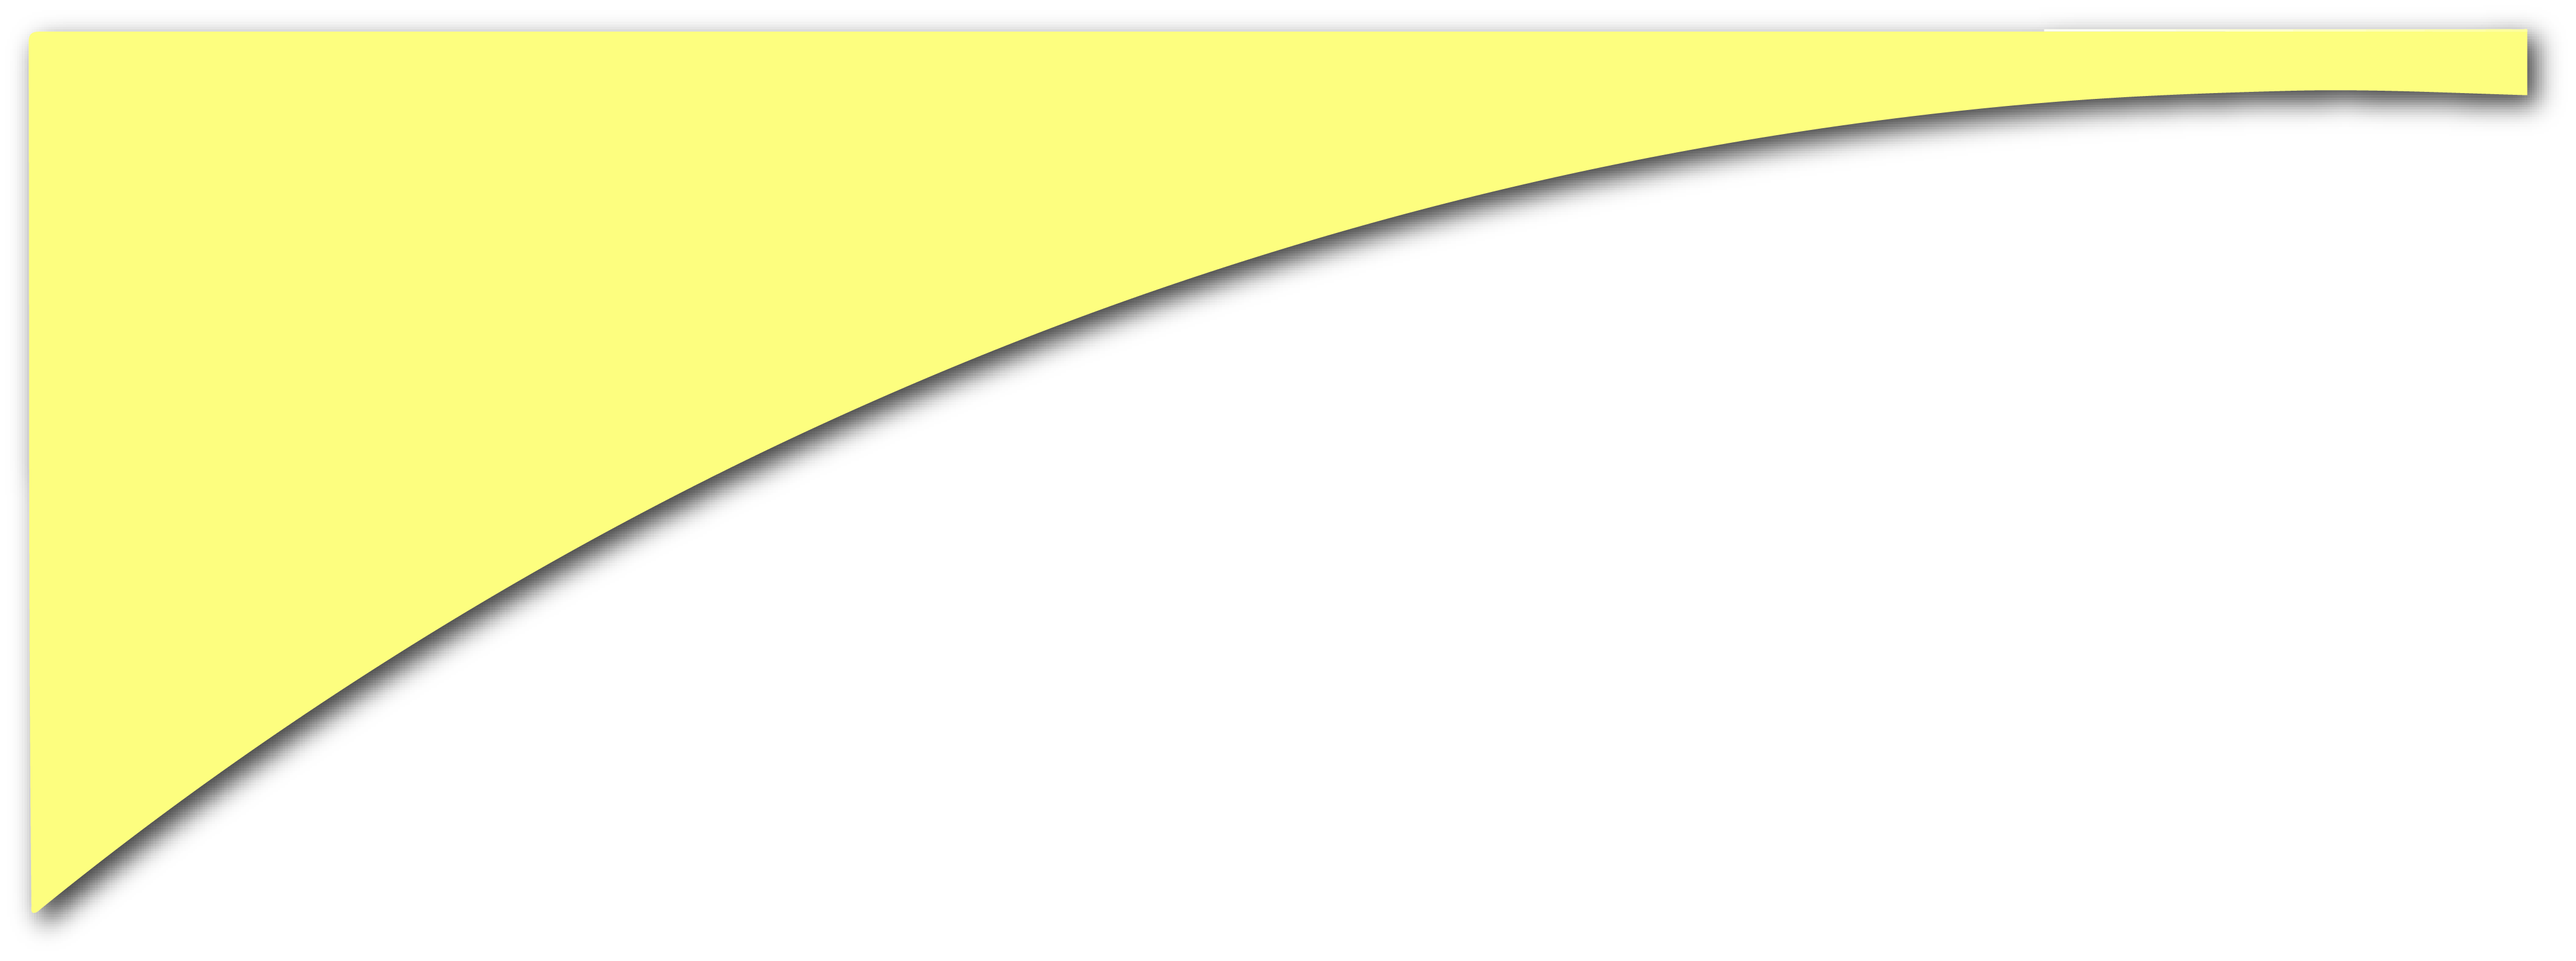
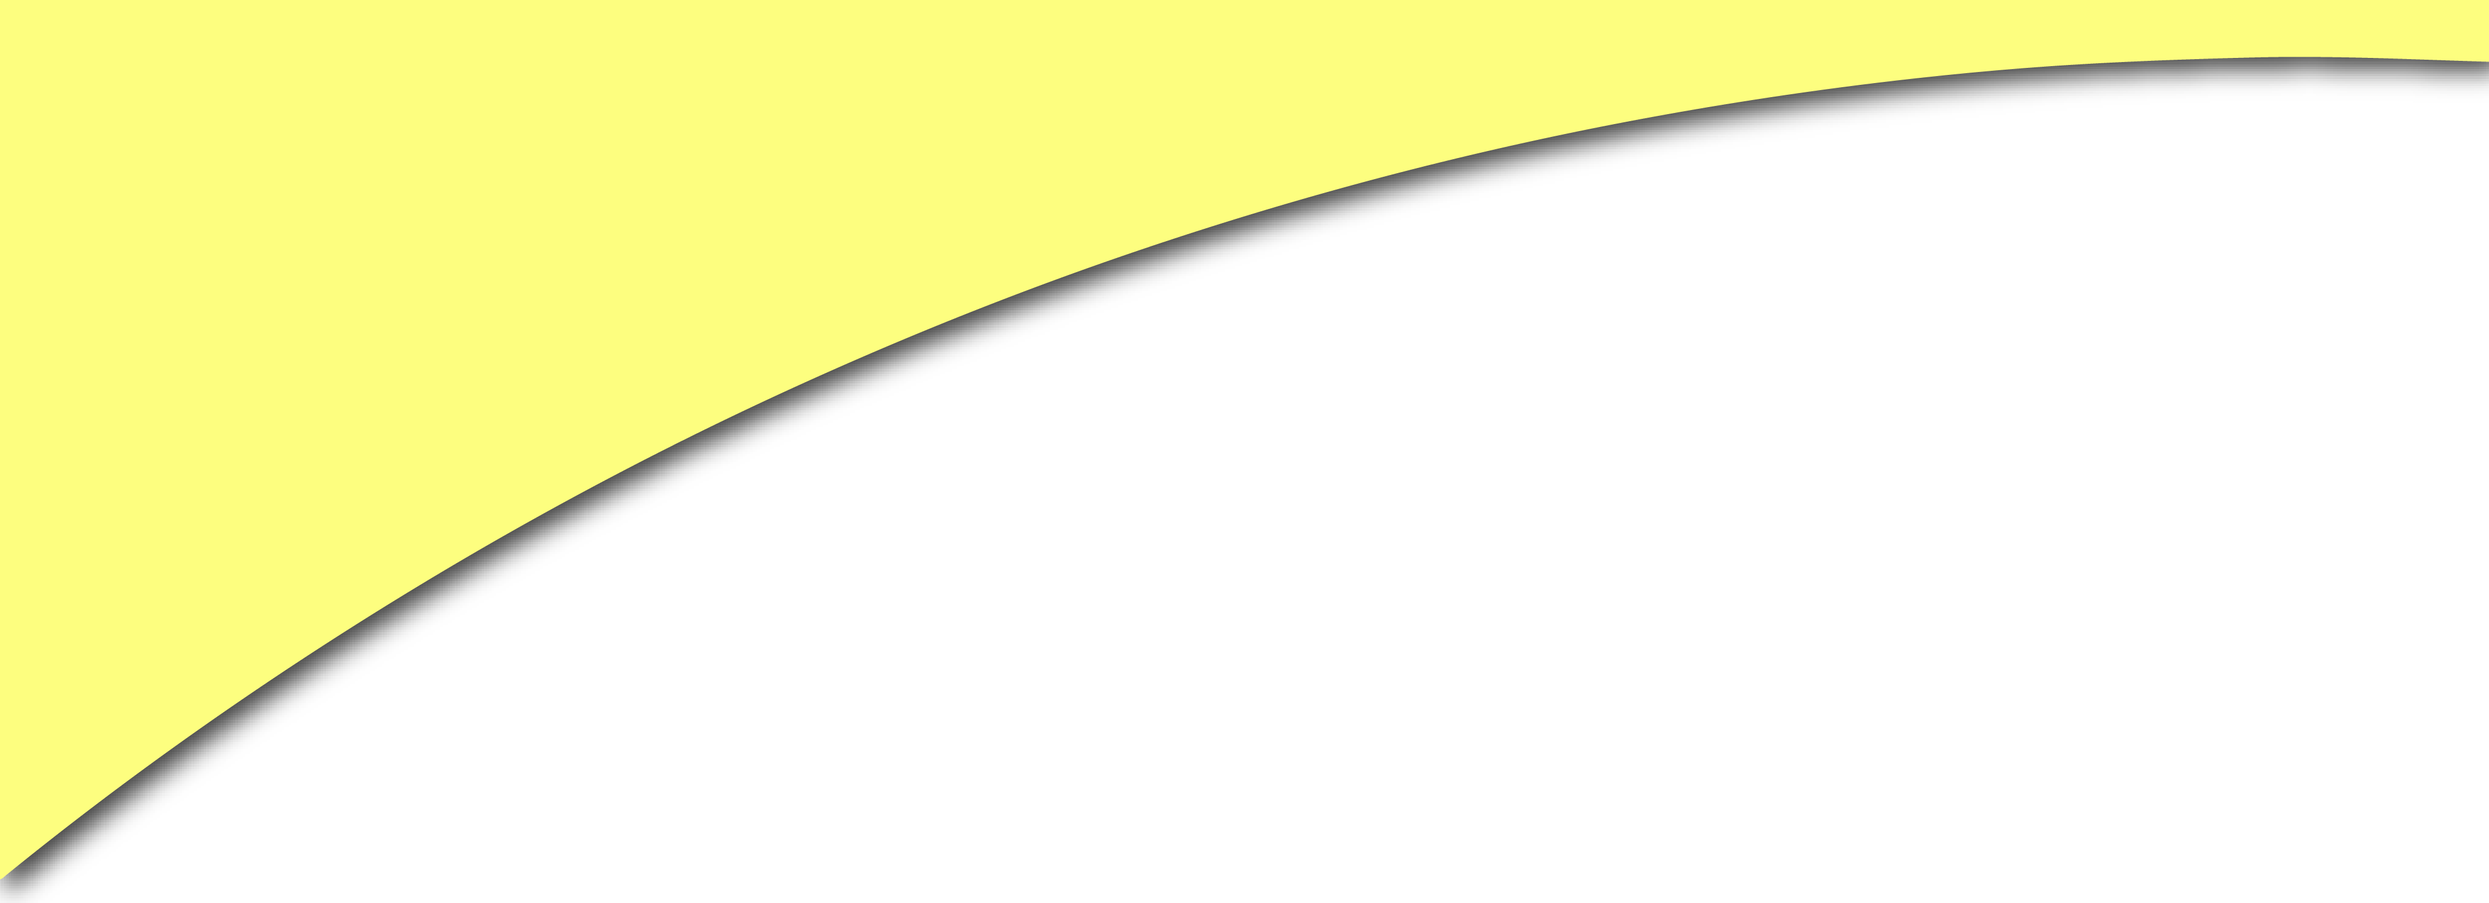
finished for now

Changed region(s): [[0.0, 0.0, 1.0, 0.9955]]

diff --git a/assets/css/style.css b/assets/css/style.css
@@ -1,6 +1,10 @@
 * {
     box-sizing: border-box;
 }
+body {
+    font-family: Arial, Helvetica, sans-serif;
+    overflow-x: hidden;
+}
 
 header {
     display: flex;
@@ -18,22 +22,30 @@ nav {
     background-color: rgb(65, 236, 170);
     align-items: end;
     height: 150px;
+    padding-bottom: 10px;
+    padding-right: 20px;
+
 }
 
 nav ul {
-    width: 50%;
+    width: 40%;
     display: flex;
     flex-direction: row;
     justify-content: space-between;
+    z-index: 100;
 }
 
 nav li a {
-    font-family:'sans-serif';
     font-weight: bold;
     font-size: 30px;
     color: black;
     text-decoration: none;
-    margin: 0px 50px;
+    margin: 0;
+}
+
+nav li a:hover {
+    color: blue;
+    text-decoration: underline;
 }
 
 main {
@@ -41,10 +53,12 @@ main {
     flex-direction: row-reverse;
     width: 100%;
 }
-
+.main-content {
+    width: 75%
+}
 .curve {
     height: 450px;
-    left: -15px;
+    left: 0px;
     position: absolute;
     top: -20px;
     width: 100%;
@@ -55,6 +69,7 @@ main {
     width: 100%;
     height: 400px;
 }
+
 
 .car-dog {
     position: relative;
@@ -69,21 +84,30 @@ h2 {
 }
 
 .bring-to-you {
+    background-image: url("../images/dog-car.jpg");
+    background-size: cover;
+    background-position: 50% 50%;
+    width: 100%;
+    height: 400px;
+    padding-left: 40px;
+}
+
+.bring-to-you p {
     position: absolute;
-    left: 375px;
-    bottom: 40%;
     color: white;
     font-weight: bold;
     font-size: 60px;
-    width: 600px;
-    height: 40px;
+    height: 100%;
+    width: 50%;
+    padding-top: 120px;
+    padding-left: 10px;
+    text-shadow: 2px 2px 8px #000000;
 }
 
 .steps {
     display: flex;
-    justify-content: space-between;
-    height: 200px;
-    width: 100%;
+    /* height: 200px; */
+    /* width: 100%; */
 } 
 
 #calendar-pic {
@@ -93,26 +117,26 @@ h2 {
 }
 
 .dot-top {
-    width: 120px;
+    width: 25%;
     height:60px;
     z-index: -1;
     background: transparent;
     border: none;
-    border-top: dotted 2px black;
+    border-top: dotted 10px black;
     padding: 40px 40px;
-    border-radius: 40%;
+    border-radius: 100%;
     margin: 20px -50px 0;
 }
 
 .dot-bottom {
-    width: 120px;
-    height:60px;
+    width: 33%;
+    height:140px;
     z-index: -1;
     background: transparent;
     border: none;
-    border-bottom: dotted 2px black;
+    border-bottom: dotted 10px black;
     padding: 40px 40px;
-    border-radius: 0 0 50% 50%;
+    border-radius: 100%;
     margin: 0 -65px;
 }
 
@@ -133,31 +157,28 @@ h2 {
 }
 
 figcaption { 
-    width: 25%;
+    width: 165px;
     display: flex;
     text-align: center;
+    margin-top: 10px;
 } 
 
 #cap-cal {
-    width: 45%;
     display: flex;
     text-align: center;
 }
 
 #cap-car {
-    width: 42%;
     display: flex;
     text-align: center;
 }
 
 #cap-sponge {
-    width: 45%;
     display: flex;
     text-align: center;
 }
 
 #cap-dog {
-    width: 55%;
     display: flex;
     text-align: center;
 }
@@ -171,16 +192,14 @@ aside {
 #green-box { 
     border: 3px;
     width: 85%;
-    height: 200px;
     border-radius: 10px;
-    padding: 5px;
+    padding: 30px 5px;
     background-color: rgba(9, 164, 60, 0.713);
     color: white;
 }
 
 #green-box p {
     font-size: 53px;
-    margin-top: 12px;
     text-align: center;
     font-family: 'Comic Sans MS', sans-serif;
 }
@@ -218,3 +237,118 @@ footer p {
     justify-content: flex-end;
 } 
 
+@media screen and (max-width: 1000px) {
+    #green-box {
+        display: flex;
+        flex-wrap: wrap;
+    }
+    #green-box p {
+        font-size: 45px;
+    }
+}
+
+@media screen and (max-width: 940px) {
+    #calendar-pic {
+        height: 125px;
+        width: 125px;
+        /* margin-left: 90px; */
+    }
+
+    #car-pic {
+        height: 125px;
+        width: 125px;
+    }
+    
+    #sponge-pic {
+        height: 125px;
+        width: 125px;
+    }
+    
+    #animated-dog-pic {
+        height: 125px;
+        width: 125px;
+        /* margin-left: -85px; */
+    }
+}
+
+@media screen and (max-width: 865px) {
+    figcaption { 
+        width: 130px;
+        display: flex;
+        text-align: center;
+        margin-top: 10px;
+    }
+}
+
+@media screen and (max-width: 845px) {
+    #green-box {
+        display: flex;
+        flex-wrap: wrap;
+    }
+
+    #green-box p {
+        font-size: 35px;
+    }
+
+    nav ul {
+        display: flex;
+        flex-wrap: wrap;
+    }
+}
+
+@media screen and (max-width: 720px) {
+    nav li a {
+        font-size: 25px;
+    }
+}
+
+@media screen and (max-width: 700px) {
+    .steps {
+        display: flex;
+        flex-wrap: wrap;
+        justify-content: center;
+    }
+
+    .dot-top {
+        display: none;
+    }
+
+    .dot-bottom {
+        display: none;
+    }
+}
+
+@media screen and (max-width: 670px) {
+    #green-box {
+        display: flex;
+        flex-wrap: wrap;
+    }
+
+    #green-box p {
+        font-size: 25px;
+    }
+}
+
+@media screen and (max-width: 543px) {
+    .bring-to-you p {
+        position: absolute;
+        color: white;
+        font-weight: bold;
+        font-size: 40px;
+        height: 100%;
+        width: 50%;
+        padding-top: 120px;
+        padding-left: 10px;
+        text-shadow: 2px 2px 8px #000000;
+    }
+}
+
+@media screen and (max-width: 500px) {
+    #green-box p {
+        font-size: 25%;
+    }
+
+    nav li a {
+        font-size: 20px;
+    }
+}

diff --git a/index.html b/index.html
@@ -15,9 +15,9 @@
 
         <nav>
             <ul>
-                <li><a href="#about" target="_blank">About</a></li>
-                <li><a href="#services" target="_blank">Services</a></li>
-                <li><a href="#contact" target="_blank">Contact</a></li>
+                <li><a href="#" onclick="alert('About coming soon')">About</a></li>
+                <li><a href="#" onclick="alert('Services coming soon')">Services</a></li>
+                <li><a href="#" onclick="alert('Updated contact soon')">Contact</a></li>
             </ul>
         </nav>
     </header>
@@ -25,11 +25,11 @@
     <main>
         <section class="main-content">
             <div class="curve">
-                <img src="./assets/images/header-shape.png" style="width: 110%; height: 450px" alt="yellow curve" />
+                <img src="./assets/images/header-shape.png" style="width: 100%; height: 450px" alt="yellow curve" />
             </div>
             <div class="carDog">
-                <img id="car-dog" src="./assets/images/dog-car.jpg" alt="dog with head out of car" />
-                <div class="bring-to-you">Bring the clean directly to you!</p>
+                <div class="bring-to-you">
+                    <p>Bring the clean directly to you!</p>
                 </div>
                 <div>
                     <h2>How does it work?</h2>
